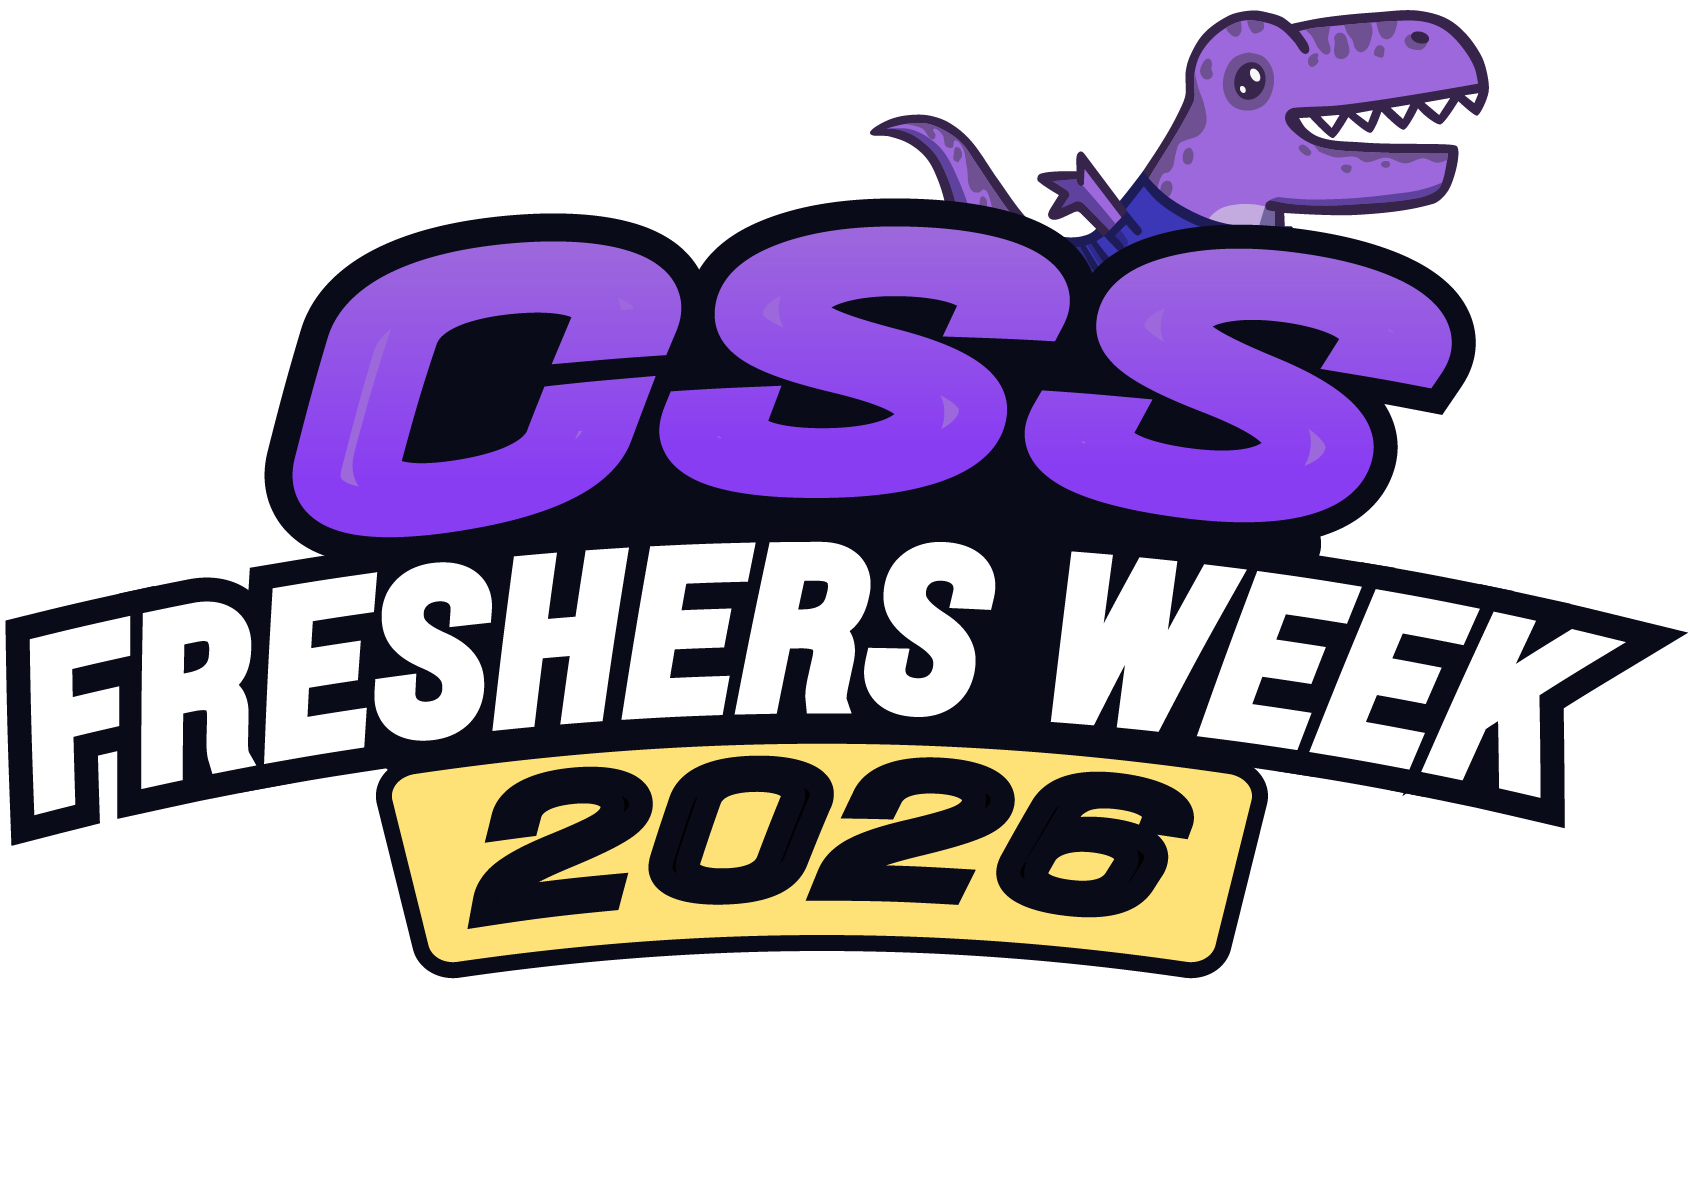
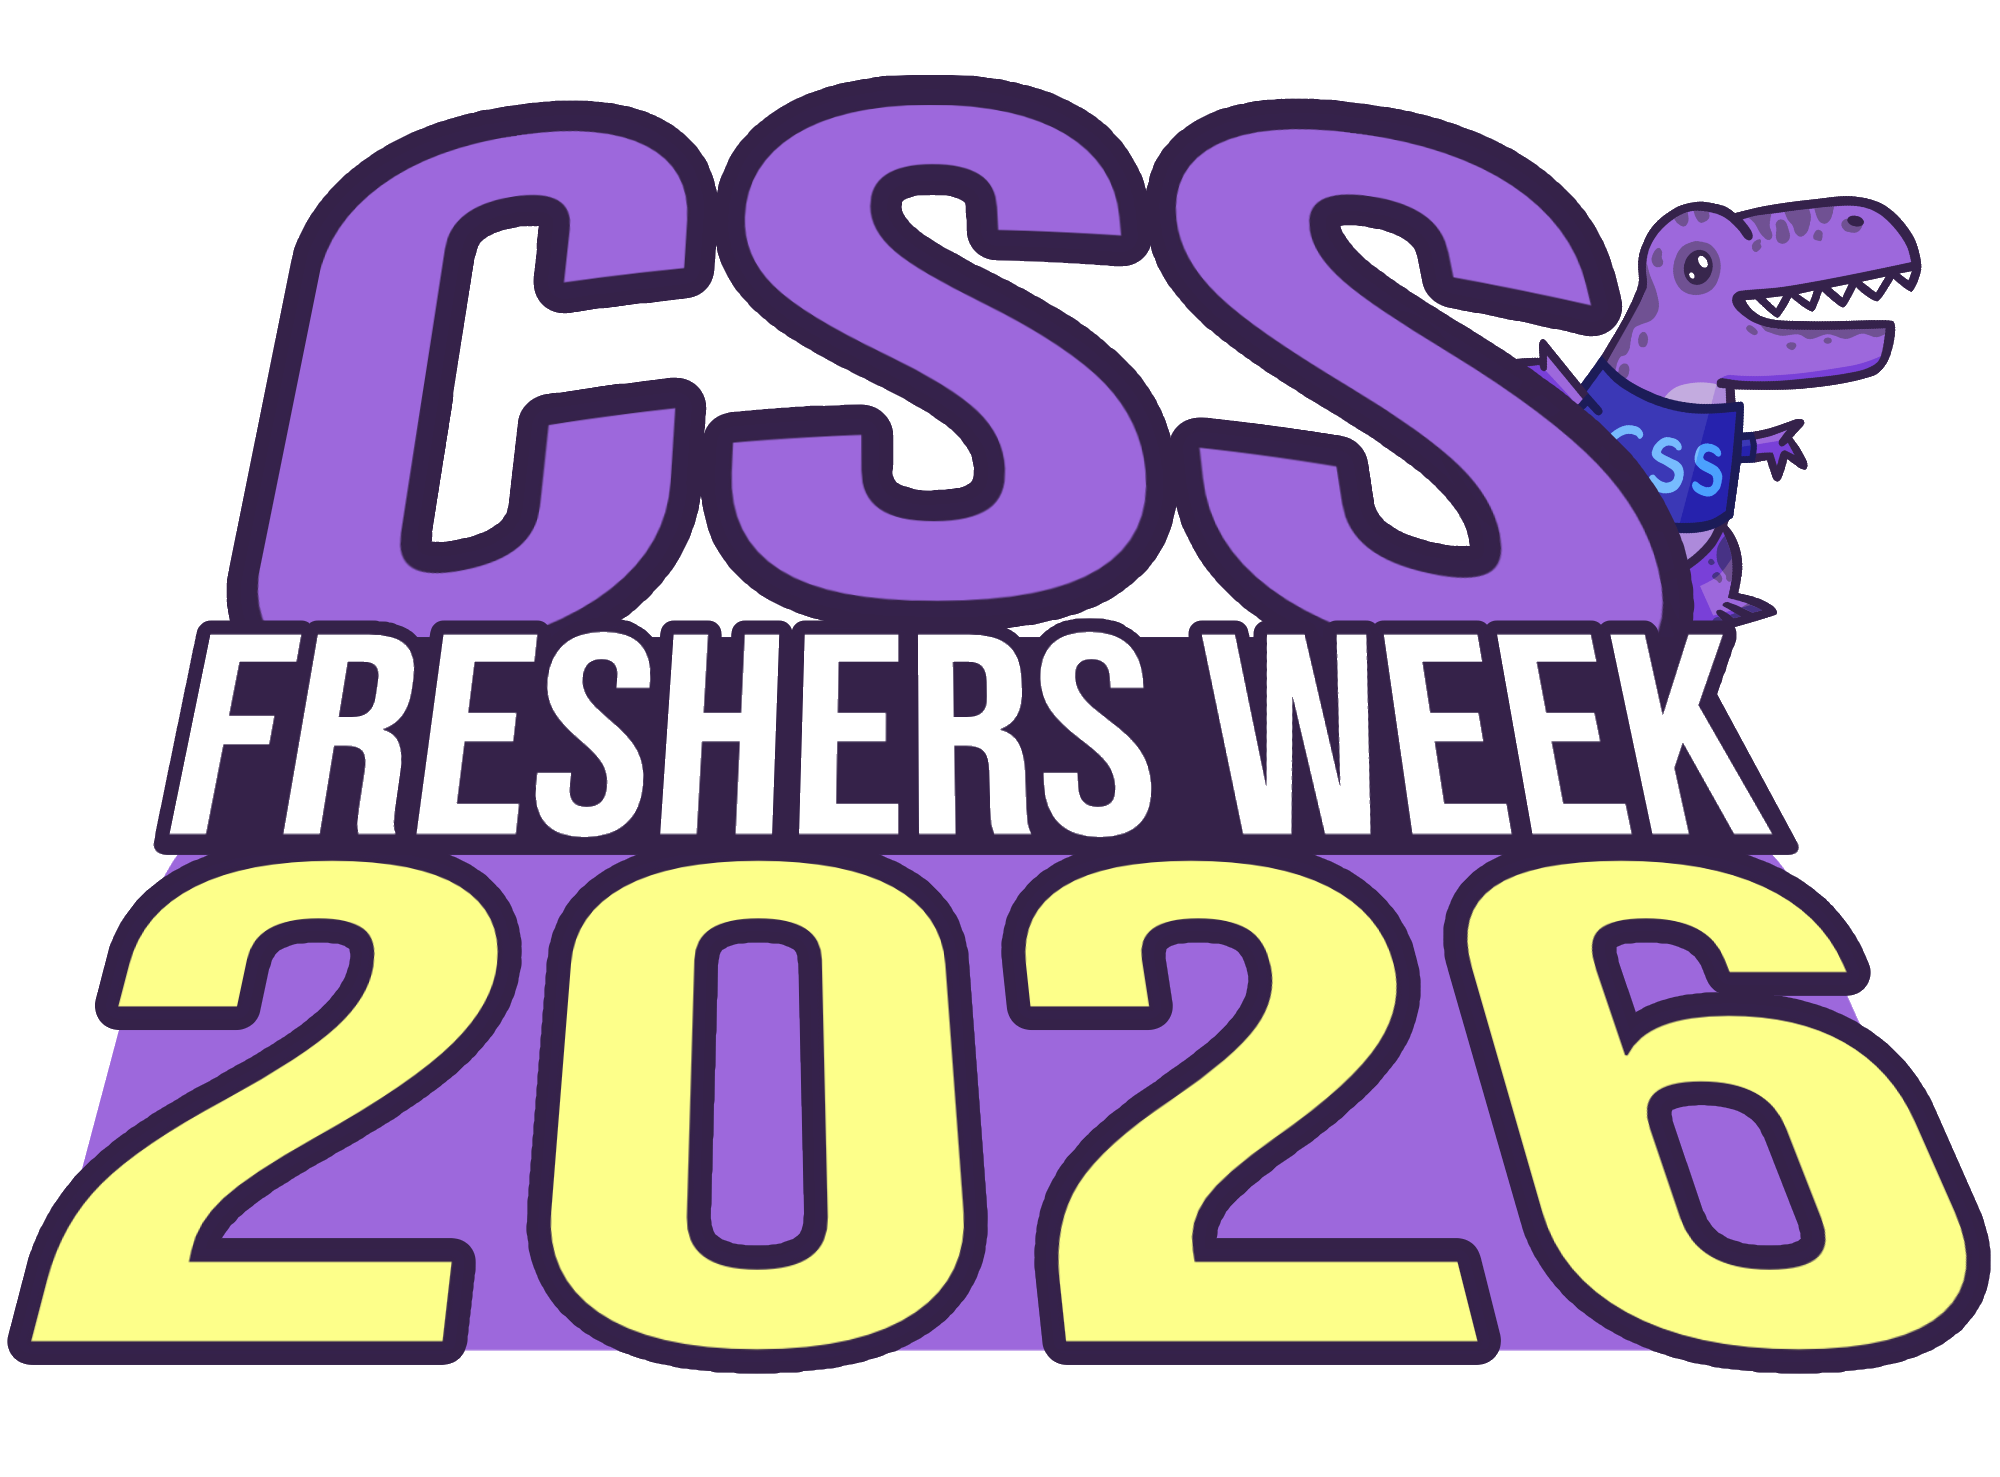
Change lockup to look less AI (#949)
* Change lockup to look less AI and make it smaller

* Change image as per poll

* Increase scaling

* Run prettier

* Revert prettier fixes

I ran v3.9.9 locally, whereas repo uses v3.2.5. Revert changes to be in line with repo.

---------

diff --git a/css/freshers.scss b/css/freshers.scss
@@ -1040,6 +1040,7 @@ body > footer {
     #0d122d 72%
   );
   --freshers-logo-inset: clamp(16px, 3vw, 42px);
+  --freshers-logo-scale: 1;
   position: relative;
   z-index: 2;
   display: grid;
@@ -1076,6 +1077,7 @@ body > footer {
     max-height: none;
     margin: 0;
     object-fit: contain;
+    transform: scale(var(--freshers-logo-scale));
     filter: drop-shadow(0 16px 24px rgba(9, 11, 24, 0.38));
   }
 }
